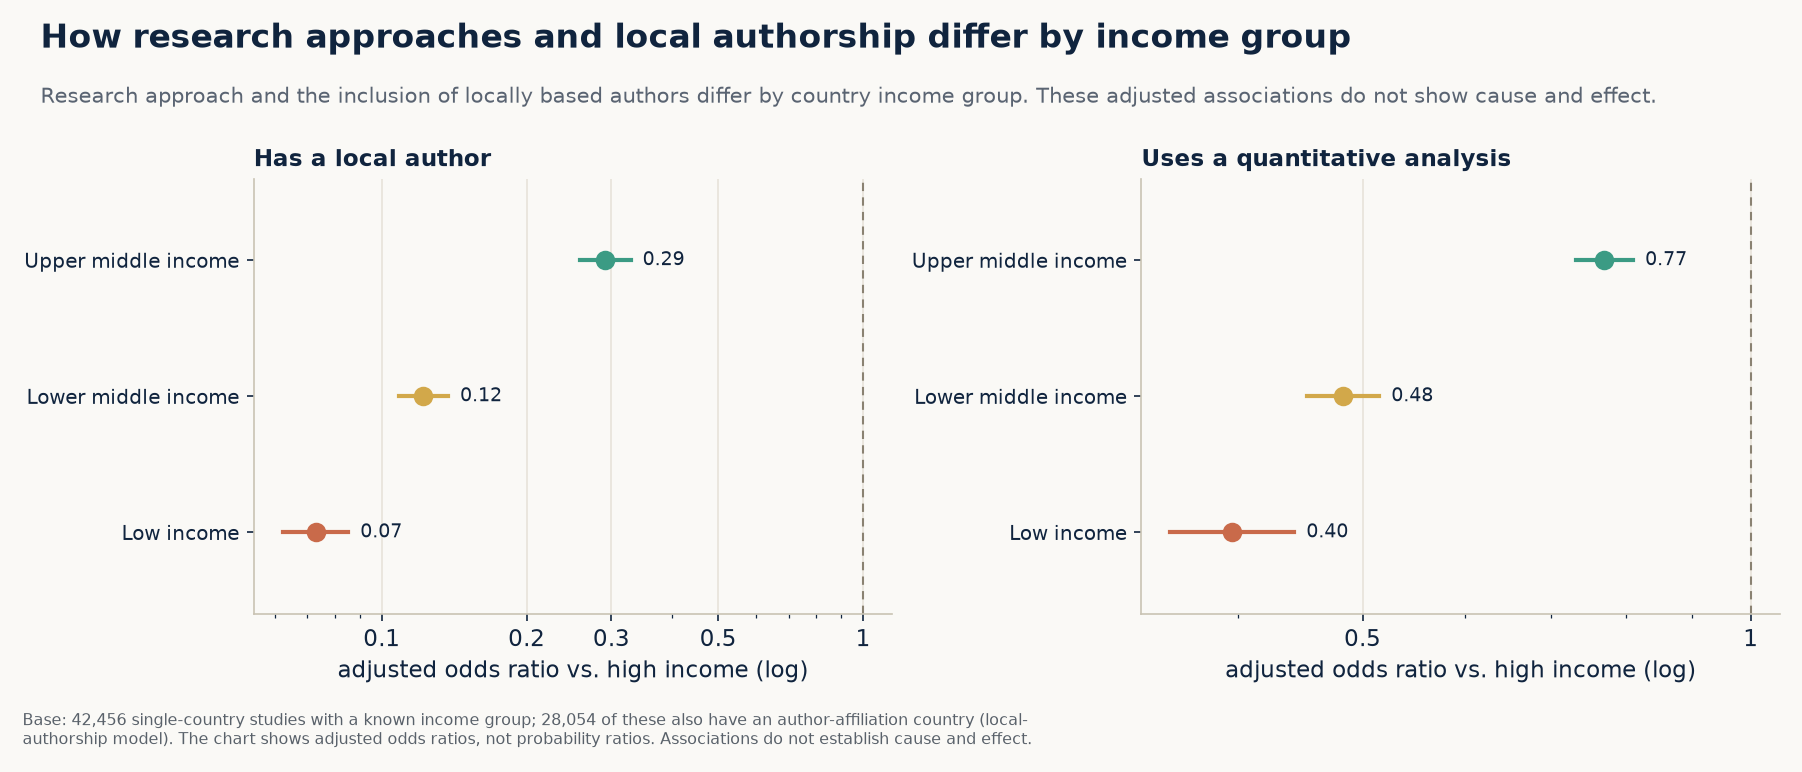
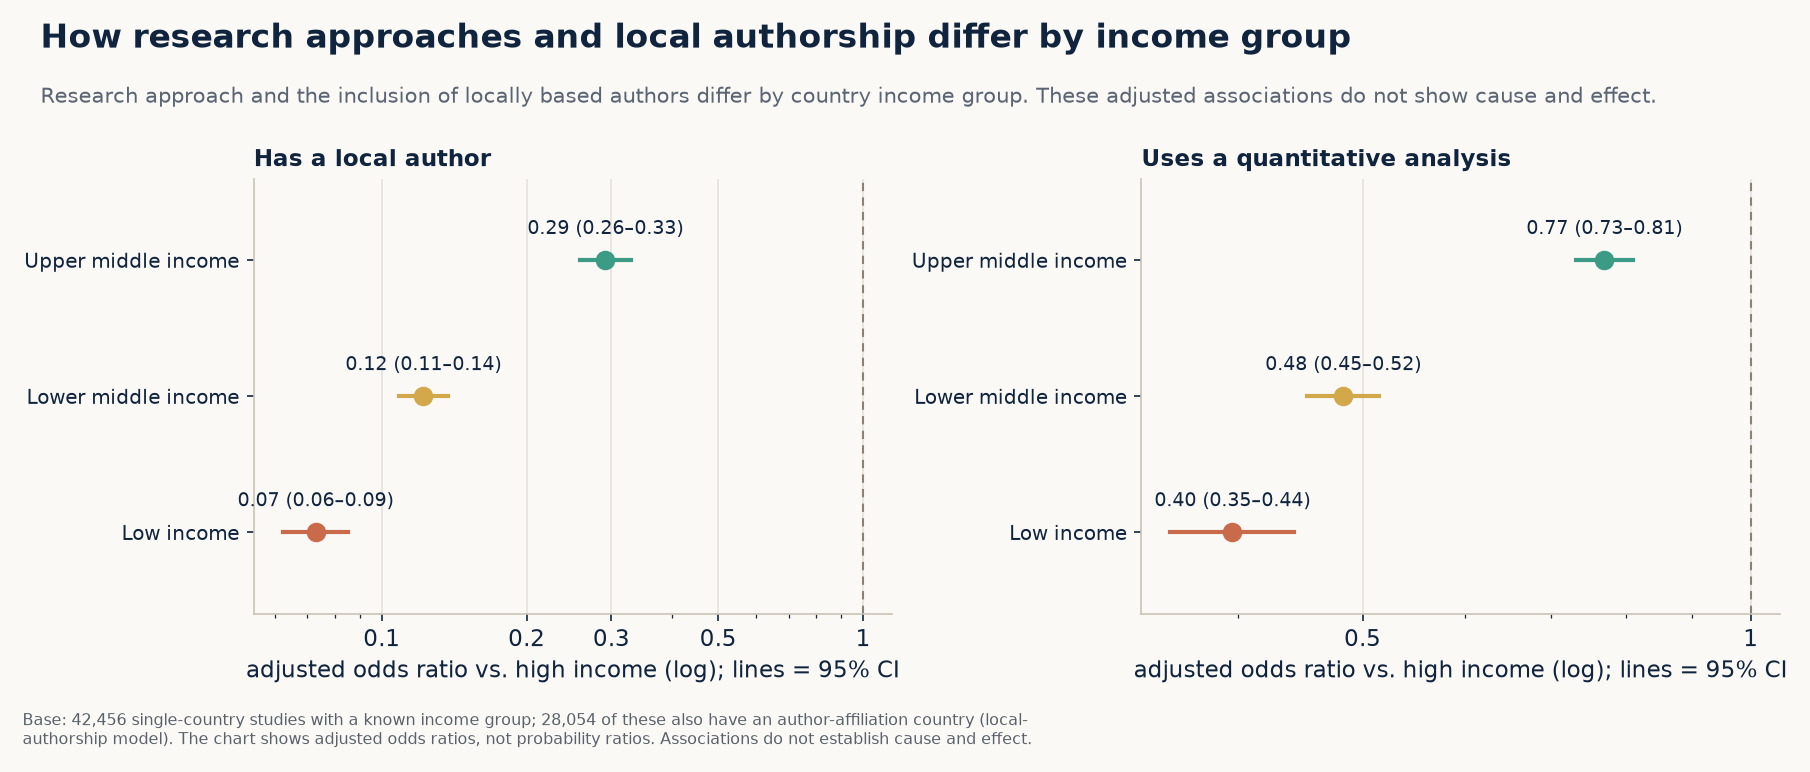
Income chart to one decimal; define countries studied; label forest plot CIs
- fig_income_bar: shares to one decimal (4.6 + 12.5 + 19.7 + 63.2 =
  100.0%; whole numbers summed to 101% through rounding).
- Technical notes for the income chart, world map and top-20 chart now
  define the countries counted: each study's setting (the country whose
  health system, programme, population or data it analyses, from the
  abstract), not where authors are based.
- fig_forest: each odds ratio is labelled with its 95% CI (Wald,
  exp(beta +/- 1.96 SE)), placed above the point; axis says "lines = 95%
  CI"; technical note explains the intervals and fixes a garbled
  sentence ("0.07x the odds of high-income studies having a local
  author" -> low-income studies have 0.07x the odds).

diff --git a/docs/index.html b/docs/index.html
@@ -11,7 +11,7 @@
      versions with SHA-384 integrity hashes verified by double fetch. -->
 <link rel="stylesheet" href="https://cdn.jsdelivr.net/npm/tom-select@2.3.1/dist/css/tom-select.min.css" integrity="sha384-krui876Mk6M6Lq6uj1SQo+u4MoImxFwCfwzWNU982QBMNci3VMZ3FoYSdUakJD5I" crossorigin="anonymous">
 <link rel="stylesheet" href="https://cdn.jsdelivr.net/npm/nouislider@15.8.1/dist/nouislider.min.css" integrity="sha384-PSZaVsyG9jDu8hFaSJev5s/9poIJlX7cuxSGdqCgXRHpo2DzIaZAyCd2rG/DJJmV" crossorigin="anonymous">
-<link rel="stylesheet" href="styles.css?v=2026-10-14a">
+<link rel="stylesheet" href="styles.css?v=2026-10-14c">
 </head>
 <body>
 
@@ -82,7 +82,7 @@
         <div class="card-body overview-analysis-body">
           <button class="overview-figure-button" id="ov-worldmap-open" type="button"
                   aria-label="Open the figure showing which countries the studies examine">
-            <img class="overview-analysis-figure" src="figures/fig_worldmap.png?v=2026-10-14a"
+            <img class="overview-analysis-figure" src="figures/fig_worldmap.png?v=2026-10-14c"
                  alt="World map showing which countries health financing studies examine">
           </button>
         </div>
@@ -95,7 +95,7 @@
         <div class="card-body overview-analysis-body">
           <button class="overview-figure-button" id="ov-function-open" type="button"
                   aria-label="Open the studies by financing function figure">
-            <img class="overview-analysis-figure" src="figures/fig_function_bar.png?v=2026-10-14a"
+            <img class="overview-analysis-figure" src="figures/fig_function_bar.png?v=2026-10-14c"
                  alt="Bar chart showing studies by health financing function">
           </button>
         </div>
@@ -108,7 +108,7 @@
         <div class="card-body overview-analysis-body">
           <button class="overview-figure-button" id="ov-disease-method-open" type="button"
                   aria-label="Open the figure showing how each disease area is evaluated">
-            <img class="overview-analysis-figure" src="figures/fig_disease_method.png?v=2026-10-14a"
+            <img class="overview-analysis-figure" src="figures/fig_disease_method.png?v=2026-10-14c"
                  alt="Heatmap showing the mix of financing functions evaluated within each disease area">
           </button>
         </div>
@@ -147,7 +147,7 @@
     <div class="theme-wrap">
       <div id="gal-index">
         <header class="thematic-hero">
-          <img class="thematic-hero-map" src="figures/fig_worldmap.png?v=2026-10-14a" alt="" aria-hidden="true">
+          <img class="thematic-hero-map" src="figures/fig_worldmap.png?v=2026-10-14c" alt="" aria-hidden="true">
           <div class="thematic-hero-copy">
             <div class="thematic-eyebrow">Thematic analysis</div>
             <h1>Explore key patterns in the global health financing evidence base.</h1>
@@ -741,7 +741,7 @@
 <script src="https://cdn.jsdelivr.net/npm/plotly.js-dist-min@2.35.2/plotly.min.js" integrity="sha384-cCVCZkAjYNxaYKbM8lsArLznDF/SvMFr1jcZrvOpSTCa0W40ZAdLzHCEulnUa5i7" crossorigin="anonymous"></script>
 <script src="https://cdn.jsdelivr.net/npm/tom-select@2.3.1/dist/js/tom-select.complete.min.js" integrity="sha384-cnROoUgVILyibe3J0zhzWoJ9p2WmdnK7j/BOTSWqVDbC1pVw2d+i6Q/1ESKJKCYf" crossorigin="anonymous"></script>
 <script src="https://cdn.jsdelivr.net/npm/nouislider@15.8.1/dist/nouislider.min.js" integrity="sha384-EcVTHT5RdDTvzbTIbNOtaNxNALeJYDgmv5Crp3NBmcdrCPrDnqp6I1+ETJ/FCFHI" crossorigin="anonymous"></script>
-<script type="module" src="app.js?v=2026-10-14a"></script>
+<script type="module" src="app.js?v=2026-10-14c"></script>
 
 </body>
 </html>

diff --git a/docs/app.js b/docs/app.js
@@ -1,6 +1,6 @@
 // Cache-busting build token — bump alongside index.html's ?v= query string
 // whenever app.js or the data files change.
-const BUILD = "2026-10-14a";
+const BUILD = "2026-10-14c";
 
 const CODED_COLS = ["study_design", "type_of_analysis", "data_type", "data_source",
   "unit_of_observation", "geo_scope", "era"];

diff --git a/docs/dex_hff/build_figures_v2_5.py b/docs/dex_hff/build_figures_v2_5.py
@@ -1508,7 +1508,7 @@ bars = ax.bar(inc_labels, inc_values, color=[inc_cmap(inc_norm(v)) for v in inc_
               zorder=3, width=0.6)
 for bar, v in zip(bars, inc_values):
     ax.text(bar.get_x() + bar.get_width() / 2, v + max(inc_values) * 0.015,
-            f"{v:,}\n({100 * v / inc_total:.0f}%)", ha="center", va="bottom", fontsize=9.5,
+            f"{v:,}\n({100 * v / inc_total:.1f}%)", ha="center", va="bottom", fontsize=9.5,
             color=INK, linespacing=1.15)
 ax.margins(x=0.04)
 ax.set_ylim(0, max(inc_values) * 1.18)
@@ -2320,14 +2320,15 @@ for ax, (panel_title, rows_fp) in zip(axes, fp_results.items()):
         col = inc_colors_fp.get(inc, GREY)
         ax.plot([lo, hi], [y, y], color=col, linewidth=2, zorder=3)
         ax.scatter([orv], [y], color=col, s=70, zorder=4)
-        ax.text(hi, y, f"  {orv:.2f}", va="center", fontsize=9, color=INK)
+        # OR and 95% CI above the point, so the label never crosses the reference line at 1
+        ax.text(orv, y + 0.16, f"{orv:.2f} ({lo:.2f}–{hi:.2f})", ha="center", va="bottom", fontsize=9, color=INK)
     ax.axvline(1, color="#8a8272", linewidth=1, linestyle=(0, (4, 3)), zorder=2)
     ax.set_yticks(ys, [inc for inc, *_ in rows_fp], fontsize=9.5)
     ax.set_xscale("log")
     ax.xaxis.set_major_locator(mticker.FixedLocator([0.05, 0.1, 0.2, 0.3, 0.5, 1.0]))
     ax.xaxis.set_major_formatter(mticker.FuncFormatter(lambda v, _: f"{v:g}"))
     ax.xaxis.set_minor_formatter(mticker.NullFormatter())
-    ax.set_xlabel("adjusted odds ratio vs. high income (log)")
+    ax.set_xlabel("adjusted odds ratio vs. high income (log); lines = 95% CI")
     ax.set_title(panel_title, fontsize=11, fontweight="bold", color=INK, loc="left")
     ax.set_ylim(-0.6, len(rows_fp) - 0.4)
     for spine in ("top", "right"):
@@ -2346,8 +2347,8 @@ fp_desc = ("Adjusted odds ratios from two logistic models on single-country stud
            "group. Reference group is high-income studies (OR=1). Adjusted for era; observational, so "
            "associations not causes.")
 fp_finding = (f"{lowest_quant[0]} studies have {lowest_quant[1]:.2f}× the odds of a high-income study of "
-              f"using a quantitative analysis, and {lowest_local[1]:.2f}× the odds of {lowest_local[0]} "
-              f"studies having a local author.")
+              f"using a quantitative analysis, and {lowest_local[0]} studies have {lowest_local[1]:.2f}× the "
+              f"odds of having a local author.")
 FIG_META["fig_forest.png"] = (fp_headline, fp_desc, fp_finding)
 fig.suptitle("")
 fig.text(0.02, 0.99, D(fp_headline), fontsize=15.5, fontweight="bold", color=INK, ha="left", va="top")
